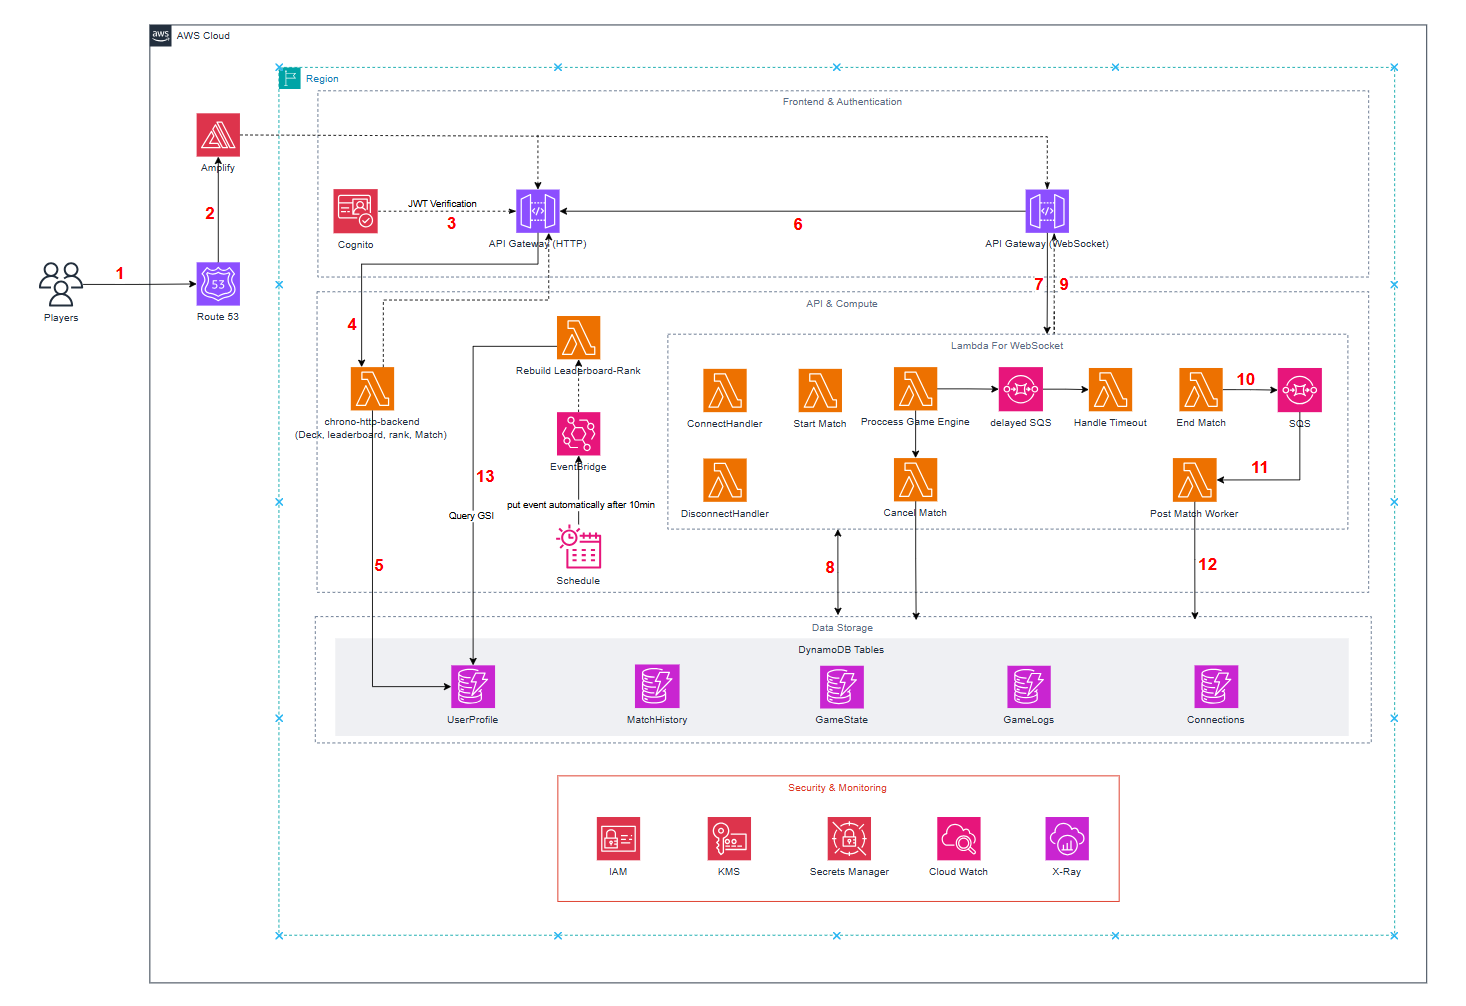
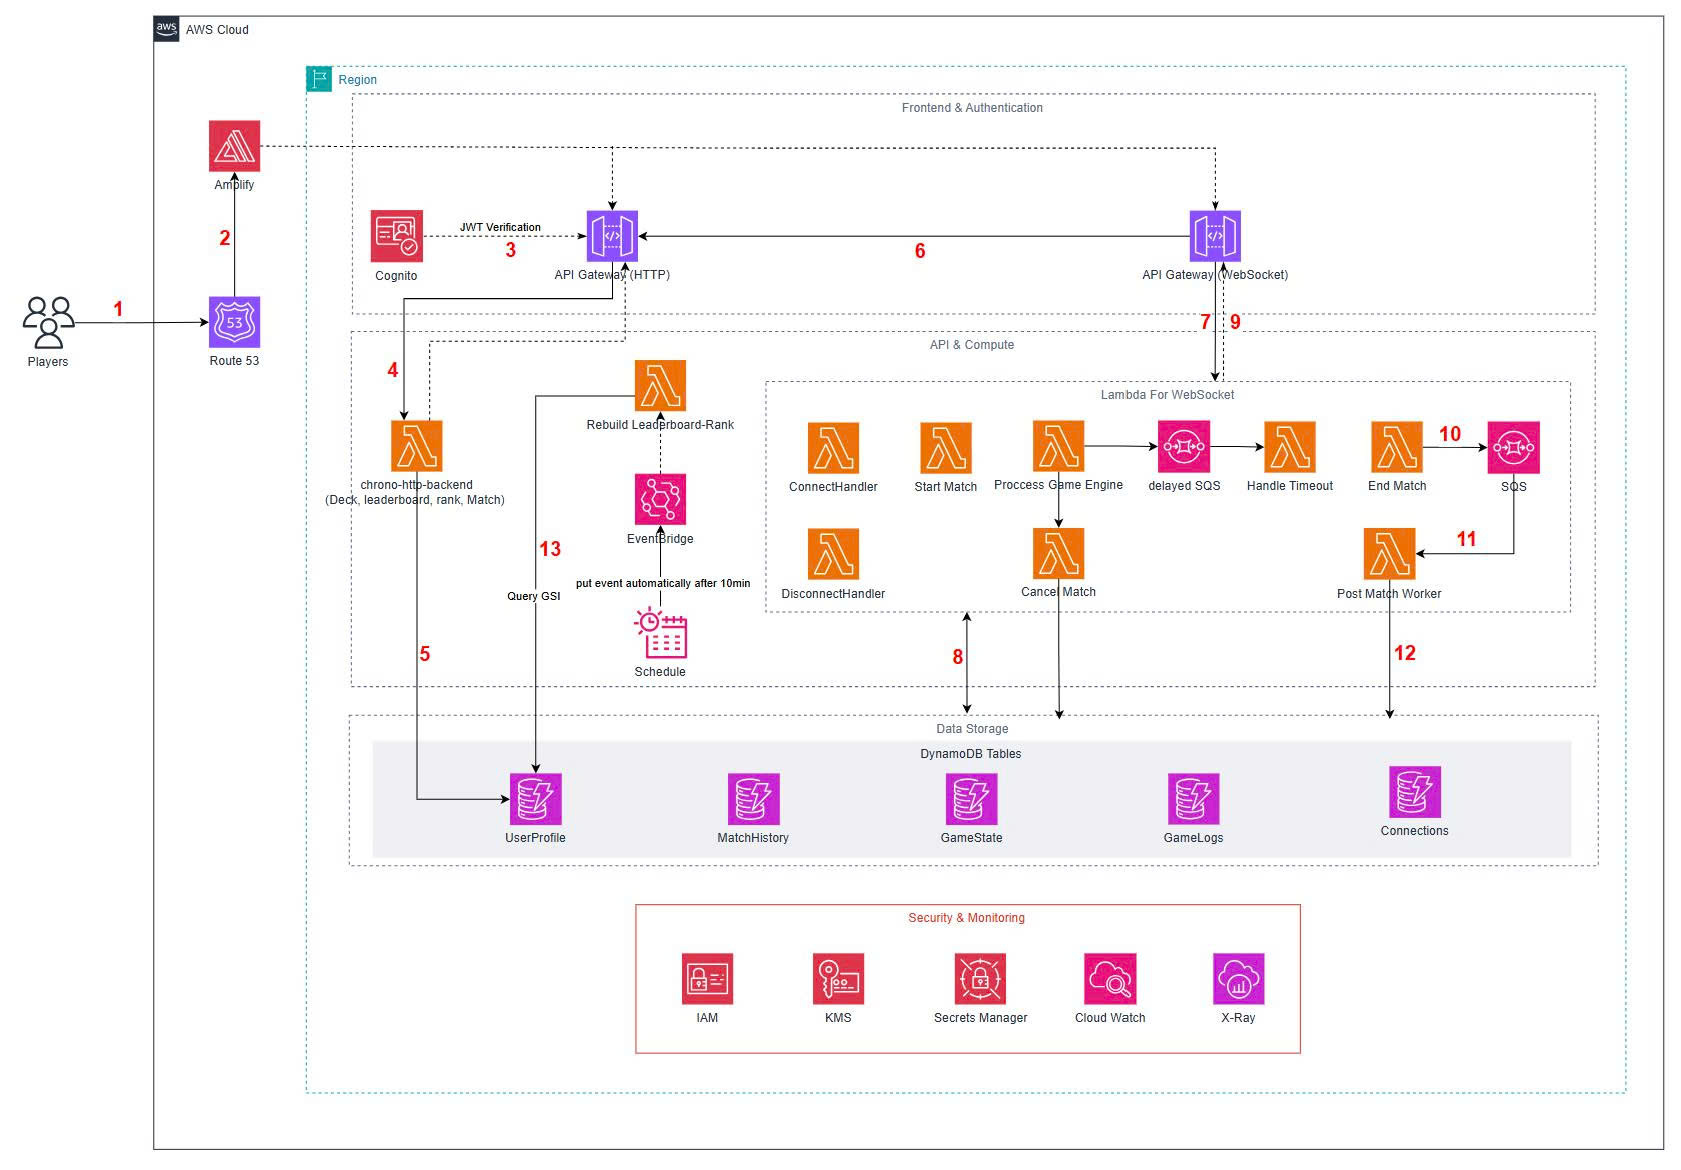
update: 8-resource

diff --git a/content/8-Resources/_index.vi.md b/content/8-Resources/_index.vi.md
@@ -47,3 +47,14 @@ _Video giới thiệu cơ chế xử lí lỗi AFK/Treo game của CHRONO GENESI
 {{< youtube Tsjv_Fz_gPw>}}
 
 _Video full gameplay demo của trò chơi CHRONO GENESIS TCG._
+
+#### Xếp hạng toàn cầu và xếp hạng cá nhân
+
+![Xếp hạng toàn cầu và xếp hạng cá nhân](/images/8-Resources/1-rankGlobal.png)
+
+![Xếp hạng toàn cầu và xếp hạng cá nhân](/images/8-Resources/2-rankPersonal.png)
+
+#### Lịch sử đấu cá nhân
+
+![Lịch sử đấu cá nhân](/images/8-Resources/matchHistory.png)
+

diff --git a/content/8-Resources/_index.md b/content/8-Resources/_index.md
@@ -47,3 +47,13 @@ _Video introducing the AFK/Game freeze handling mechanism of CHRONO GENESIS TCG.
 {{< youtube Tsjv_Fz_gPw >}}
 
 _Full gameplay demo video of CHRONO GENESIS TCG._
+
+#### Global Rank and personal Rank
+
+![Global Rank and personal Rank](/images/8-Resources/1-rankGlobal.png)
+
+![Global Rank and personal Rank](/images/8-Resources/2-rankPersonal.png)
+
+#### Match History
+
+![matchHistory](/images/8-Resources/matchHistory.png)
